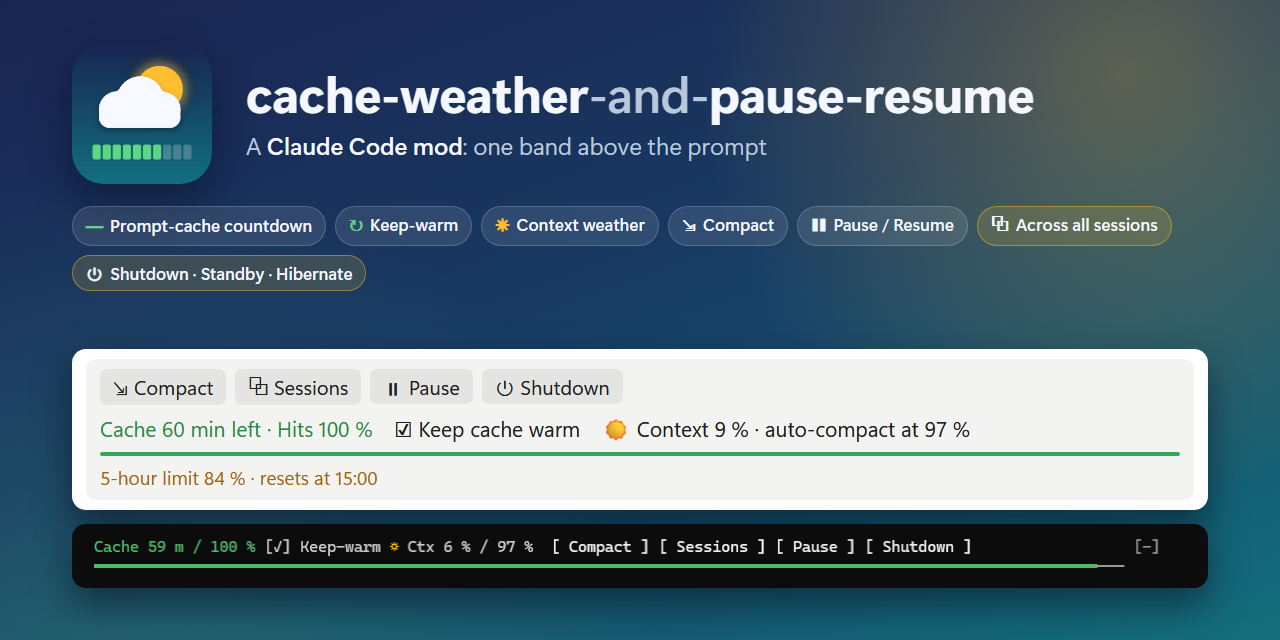
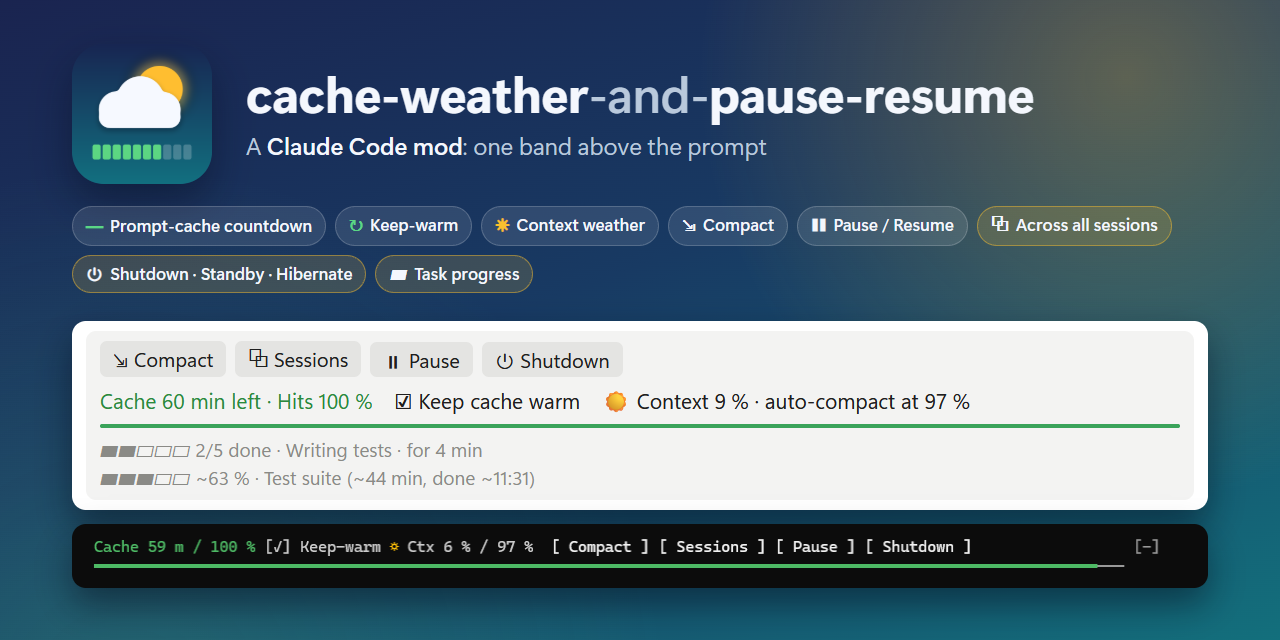
Social preview for 0.12.0: the task rows
A chip "Task progress", and under the bar of the desktop band the two task
rows (2/5 done, and a run with its estimate) in place of the usage row. The
READMEs describe the new picture.

Changed region(s): [[0.0312, 0.5, 0.9688, 0.7812], [0.0625, 0.375, 0.4375, 0.4688]]

diff --git a/docs/social-preview.html b/docs/social-preview.html
@@ -3,9 +3,10 @@
 <head>
 <!-- The repository's social preview (docs/social-preview.png, 1280 x 640). Rendered with a headless browser:
      msedge --headless=new --window-size=1280,640 --allow-file-access-from-files --screenshot=social-preview.png social-preview.html
-     The desktop band is drawn here in English with the mod's own texts and layout of 0.10.0 (the buttons with icon and
-     word in a row of their own over the readings, every button as a running session shows it, and a usage window past
-     80 % in the status row); the terminal band is a screenshot. -->
+     The desktop band is drawn here in English with the mod's own texts and layout of 0.12.0 (the buttons with icon and
+     word in a row of their own over the readings, every button as a running session shows it, and the task rows of
+     0.12.0 under the bar: Claude's task list, and the background run with its estimate); the terminal band is a
+     screenshot. -->
 <meta charset="utf-8">
 <style>
   :root {
@@ -82,6 +83,7 @@
     <span class="chip"><i>❚❚</i>Pause / Resume</span>
     <span class="chip new"><i>⧉</i>Across all sessions</span>
     <span class="chip new"><i>⏻</i>Shutdown · Standby · Hibernate</span>
+    <span class="chip new"><i>▰</i>Task progress</span>
   </div>
   <div class="shots">
     <div class="card light">
@@ -99,7 +101,8 @@
         </div>
         <div class="bar"></div>
         <div class="gap"></div>
-        <div class="status warning">5-hour limit 84 % · resets at 15:00</div>
+        <div class="status subtle">▰▰▱▱▱ 2/5 done · Writing tests · for 4 min</div>
+        <div class="status subtle">▰▰▰▱▱ ~63 % · Test suite (~44 min, done ~11:31)</div>
       </div>
     </div>
     <div class="card dark"><img src="band-terminal.png" alt=""></div>

diff --git a/README.de.md b/README.de.md
@@ -7,7 +7,7 @@
 
 *English: [README.md](README.md)*
 
-![cache-weather-and-pause-resume: die Leiste über dem Eingabefeld von Claude Code — Cache-Countdown und Balken, Keep-warm, Kontext-Wetter, Compact, Pause / Weiter über alle Sitzungen, Shutdown, Standby oder Ruhezustand. In der Desktop-App wartet ein Shutdown auf eine andere Sitzung, mit der Statuszeile unter dem Balken; darunter die Leiste im Terminal](docs/social-preview.png)
+![cache-weather-and-pause-resume: die Leiste über dem Eingabefeld von Claude Code — Cache-Countdown und Balken, Keep-warm, Kontext-Wetter, Compact, Pause / Weiter über alle Sitzungen, Shutdown, Standby oder Ruhezustand, Aufgaben-Fortschritt. In der Desktop-App die Aufgaben-Zeilen unter dem Balken: 2 von 5 Aufgaben erledigt, Writing tests seit 4 Minuten, und eine Testsuite nach ihrer Schätzung zu etwa 63 % durch; darunter die Leiste im Terminal](docs/social-preview.png)
 
 > [!TIP]
 > **Kostenlos und Open Source.** Spart dir die Leiste Zeit oder Cache, kannst du ihre Weiterentwicklung unterstützen:

diff --git a/README.md b/README.md
@@ -7,7 +7,7 @@
 
 *Deutsch: [README.de.md](README.de.md)*
 
-![cache-weather-and-pause-resume: the band above the Claude Code prompt — prompt-cache countdown and bar, keep-warm, context weather, Compact, Pause / Resume across all sessions, Shutdown, Standby or Hibernate. In the desktop app a shutdown waits for another session, its status row under the bar; below, the band in a terminal](docs/social-preview.png)
+![cache-weather-and-pause-resume: the band above the Claude Code prompt — prompt-cache countdown and bar, keep-warm, context weather, Compact, Pause / Resume across all sessions, Shutdown, Standby or Hibernate, task progress. In the desktop app the task rows under the bar: 2 of 5 tasks done, Writing tests for 4 minutes, and a test suite about 63 % through by its estimate; below, the band in a terminal](docs/social-preview.png)
 
 > [!TIP]
 > **Free and open source.** If the band saves you time or cache, you can support its development:
